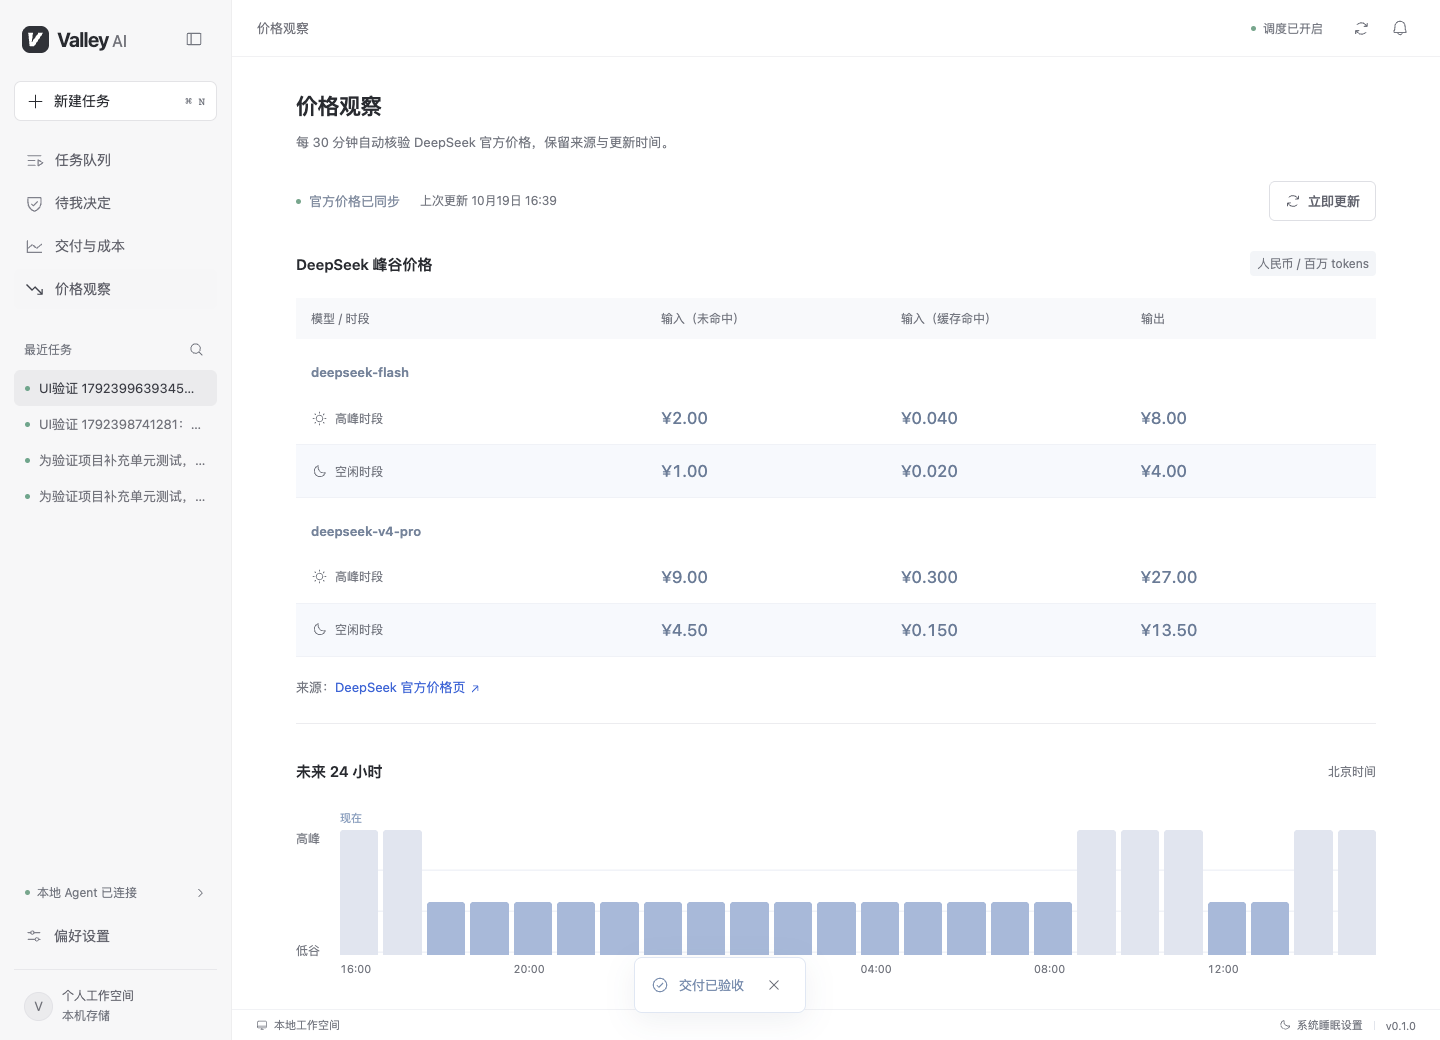
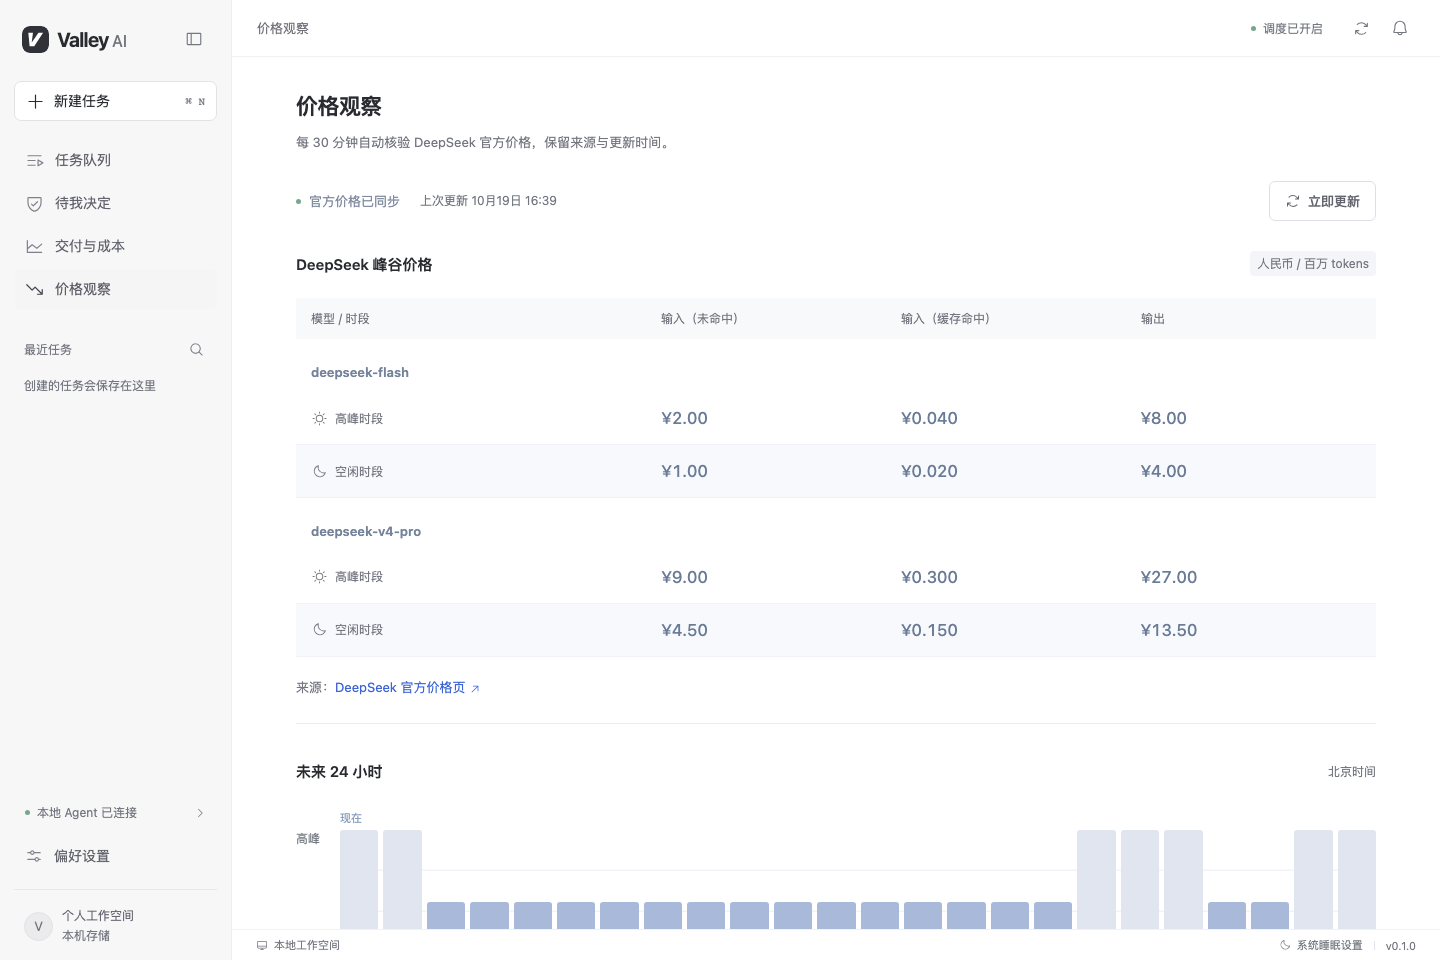
Use recognizable Apple and Windows brand marks and clean app previews

diff --git a/index.html b/index.html
@@ -6,11 +6,11 @@
 <header class="site-header"><a class="wordmark" href="#" aria-label="Valley AI 首页"><img class="mark" src="assets/icon.svg" alt="">Valley <span>AI</span></a><nav aria-label="导航"><a href="#workspace">工作方式</a><a href="#features">功能</a><a href="#download" class="nav-download">下载应用 <span aria-hidden="true">↗</span></a></nav></header>
 <main id="main">
 <section class="hero wrap"><div class="hero-copy"><div class="release-label">为编程 Agent 安排时间</div><h1>白天定好计划。<br><span>把进展留给后台。</span></h1><div class="hero-intro"><p>Valley AI 帮你安排编程 Agent 的长任务。<br>先预演，再确认执行时段，回来查看可验收的结果。</p><div class="hero-actions"><a class="button dark" href="#download">下载应用 <span aria-hidden="true">↓</span></a><a class="quiet-link" href="#workspace">看看它如何工作 <span aria-hidden="true">↗</span></a></div></div></div></section>
-<section id="workspace" class="workspace wrap"><div class="preview-head"><span>一个安静的工作区</span><span>macOS 与 Windows</span></div><div class="app-frame"><div class="window-bar"><div class="window-dots"><i></i><i></i><i></i></div><span>Valley AI</span><span class="window-type">macOS 预览版</span></div><img src="assets/workspace.png" alt="Valley AI 实际界面：左侧任务导航，中央任务输入区与最近任务列表" width="1440" height="1040" fetchpriority="high"></div><div class="preview-caption"><p>描述任务，选择项目。<br><strong>从一个具体的需求开始。</strong></p><p>你可以继续补充要求、调整计划。<br>确认任务包以后，Agent 才会开始修改代码。</p></div></section>
+<section id="workspace" class="workspace wrap"><div class="preview-head"><span>一个安静的工作区</span><span>macOS 与 Windows</span></div><div class="app-frame"><div class="window-bar"><div class="window-dots"><i></i><i></i><i></i></div><span>Valley AI</span><span class="window-type">macOS 预览版</span></div><img src="assets/workspace.png" alt="Valley AI 实际界面：左侧任务导航，中央任务输入区与最近任务列表" width="1440" height="960" fetchpriority="high"></div><div class="preview-caption"><p>描述任务，选择项目。<br><strong>从一个具体的需求开始。</strong></p><p>你可以继续补充要求、调整计划。<br>确认任务包以后，Agent 才会开始修改代码。</p></div></section>
 <section id="features" class="features wrap"><div class="section-heading"><h2>少一点跟进。<br>每一步仍然看得清。</h2></div><div class="feature-rows"><article><div><h3>先把任务想清楚</h3><p>把对话整理成执行步骤、验收标准和风险。继续讨论，直到计划符合预期。</p></div><span class="feature-tag">任务预演</span></article><article><div><h3>让执行时间有依据</h3><p>结合优先级、截止时间、模型单价和电力成本安排队列。每 30 分钟查询 DeepSeek 官方价格。</p></div><span class="feature-tag">成本调度</span></article><article><div><h3>该交给你决定时，就停下来</h3><p>命令权限与未确认的问题进入审批。预先确认且文字完全匹配的问题，可以自动回复。</p></div><span class="feature-tag">交互托管</span></article><article><div><h3>结果回到你的电脑</h3><p>在独立工作目录执行，保留变更和真实命令记录。完成后查看结果、用量与成本估算。</p></div><span class="feature-tag">本地交付</span></article></div></section>
-<section class="price-story wrap"><div class="price-copy"><span class="overline">DeepSeek 价格观察</span><h2>知道什么时候执行，<br>也知道为什么。</h2><p>价格有来源，更新时间可查看。过期的价格不会继续用于启动新的 DeepSeek 任务。</p><p class="fine-print">排程与费用均为估算，不保证最低账单；实际收费以服务商账单为准。</p><a class="quiet-link" href="https://api-docs.deepseek.com/zh-cn/quick_start/pricing/" target="_blank" rel="noopener noreferrer">查看 DeepSeek 官方定价 <span>↗</span></a></div><div class="price-preview"><img src="assets/prices.png" alt="Valley AI 价格观察页面，显示 DeepSeek 官方峰谷价格、来源与更新时间" width="1440" height="1040" loading="eager"><p>来自应用的实际截图 · 价格会随官方更新</p></div></section>
+<section class="price-story wrap"><div class="price-copy"><span class="overline">DeepSeek 价格观察</span><h2>知道什么时候执行，<br>也知道为什么。</h2><p>价格有来源，更新时间可查看。过期的价格不会继续用于启动新的 DeepSeek 任务。</p><p class="fine-print">排程与费用均为估算，不保证最低账单；实际收费以服务商账单为准。</p><a class="quiet-link" href="https://api-docs.deepseek.com/zh-cn/quick_start/pricing/" target="_blank" rel="noopener noreferrer">查看 DeepSeek 官方定价 <span>↗</span></a></div><div class="price-preview"><img src="assets/prices.png" alt="Valley AI 价格观察页面，显示 DeepSeek 官方峰谷价格、来源与更新时间" width="1440" height="960" loading="eager"><p>来自应用的实际截图 · 价格会随官方更新</p></div></section>
 <section class="guard wrap"><div><h2>锁住屏幕，<br>后台继续工作。</h2><p>任务期间阻止电脑空闲睡眠，允许屏幕关闭；使用系统锁屏保护桌面。任务进展和需要处理的请求都保留在应用里。</p><p class="fine-print">请接通电源并保持应用运行。合盖、手动睡眠、关机与系统更新仍可能中断任务。</p></div></section>
-<section id="download" class="download wrap"><div class="download-intro"><h2>让下一项任务，<br>有自己的时间。</h2><p>Valley AI <span id="version">0.1.0</span> · 桌面预览版</p></div><div class="download-options"><article><div class="os-icon" aria-hidden="true"><svg xmlns="http://www.w3.org/2000/svg" width="32" height="32" fill="currentColor" viewBox="0 0 256 256"><path d="M223.3,169.59a8.07,8.07,0,0,0-2.8-3.4C203.53,154.53,200,134.64,200,120c0-17.67,13.47-33.06,21.5-40.67a8,8,0,0,0,0-11.62C208.82,55.74,187.82,48,168,48a72.2,72.2,0,0,0-40,12.13,71.56,71.56,0,0,0-90.71,9.09A74.63,74.63,0,0,0,16,123.4a127.06,127.06,0,0,0,40.14,89.73A39.8,39.8,0,0,0,83.59,224h87.68a39.84,39.84,0,0,0,29.12-12.57,125,125,0,0,0,17.82-24.6C225.23,174,224.33,172,223.3,169.59Zm-34.63,30.94a23.76,23.76,0,0,1-17.4,7.47H83.59a23.82,23.82,0,0,1-16.44-6.51A111.14,111.14,0,0,1,32,123,58.5,58.5,0,0,1,48.65,80.47,54.81,54.81,0,0,1,88,64h.78A55.45,55.45,0,0,1,123,76.28a8,8,0,0,0,10,0A55.44,55.44,0,0,1,168,64a70.64,70.64,0,0,1,36,10.35c-13,14.52-20,30.47-20,45.65,0,23.77,7.64,42.73,22.18,55.3A105.82,105.82,0,0,1,188.67,200.53ZM128.23,30A40,40,0,0,1,167,0h1a8,8,0,0,1,0,16h-1a24,24,0,0,0-23.24,18,8,8,0,1,1-15.5-4Z"></path></svg></div><div><h3>macOS</h3><p>Apple Silicon · macOS 12 及以上</p><small id="mac-info">安装包准备中</small></div><a id="mac-download" class="button download-button disabled" aria-disabled="true">准备中 <span>↓</span></a></article><article><div class="os-icon" aria-hidden="true"><svg xmlns="http://www.w3.org/2000/svg" width="32" height="32" fill="currentColor" viewBox="0 0 256 256"><path d="M208,136H128a8,8,0,0,0-8,8v57.45a8,8,0,0,0,6.57,7.88l80,14.54A7.61,7.61,0,0,0,208,224a8,8,0,0,0,8-8V144A8,8,0,0,0,208,136Zm-8,70.41-64-11.63V152h64ZM96,136H32a8,8,0,0,0-8,8v40a8,8,0,0,0,6.57,7.87l64,11.64a8.54,8.54,0,0,0,1.43.13,8,8,0,0,0,8-8V144A8,8,0,0,0,96,136Zm-8,50.05-48-8.73V152H88ZM213.13,33.86a8,8,0,0,0-6.56-1.73l-80,14.55A8,8,0,0,0,120,54.55V112a8,8,0,0,0,8,8h80a8,8,0,0,0,8-8V40A8,8,0,0,0,213.13,33.86ZM200,104H136V61.22l64-11.63ZM101.13,54.22a8,8,0,0,0-6.56-1.73l-64,11.64A8,8,0,0,0,24,72v40a8,8,0,0,0,8,8H96a8,8,0,0,0,8-8V60.36A8,8,0,0,0,101.13,54.22ZM88,104H40V78.68L88,70Z"></path></svg></div><div><h3>Windows</h3><p>64 位 · Windows 10 / 11</p><small id="windows-info">安装包构建中</small></div><a id="windows-download" class="button download-button disabled" aria-disabled="true">构建中 <span>↓</span></a></article><div class="download-notes"><p>当前为未经平台认证的测试版。Mac 为 Apple 芯片版本；Intel Mac 暂未提供安装包。</p><p>真实任务需要 <a href="https://developers.openai.com/codex/cli" target="_blank" rel="noopener noreferrer">Codex CLI</a>、<a href="https://git-scm.com/downloads" target="_blank" rel="noopener noreferrer">Git</a> 和你自己的模型 API Key。手机端与云端执行尚未开放。</p><a id="release-link" href="https://github.com/CaliBG/valley-ai/releases" target="_blank" rel="noopener noreferrer">版本记录与文件校验 <span>↗</span></a></div></div></section>
+<section id="download" class="download wrap"><div class="download-intro"><h2>让下一项任务，<br>有自己的时间。</h2><p>Valley AI <span id="version">0.1.0</span> · 桌面预览版</p></div><div class="download-options"><article><div class="os-icon os-apple" aria-hidden="true"><svg xmlns="http://www.w3.org/2000/svg" viewBox="0 0 384 512" fill="currentColor"><!-- Font Awesome Free 7.3.1 by Fonticons, Inc. | CC BY 4.0 | https://fontawesome.com/license/free --><path d="M319.1 268.7c-.2-36.7 16.4-64.4 50-84.8-18.8-26.9-47.2-41.7-84.7-44.6-35.5-2.8-74.3 20.7-88.5 20.7-15 0-49.4-19.7-76.4-19.7-55.8 .9-115.1 44.5-115.1 133.2 0 26.2 4.8 53.3 14.4 81.2 12.8 36.7 59 126.7 107.2 125.2 25.2-.6 43-17.9 75.8-17.9 31.8 0 48.3 17.9 76.4 17.9 48.6-.7 90.4-82.5 102.6-119.3-65.2-30.7-61.7-90-61.7-91.9zM262.5 104.5c27.3-32.4 24.8-61.9 24-72.5-24.1 1.4-52 16.4-67.9 34.9-17.5 19.8-27.8 44.3-25.6 71.9 26.1 2 49.9-11.4 69.5-34.3z"/></svg></div><div><h3>macOS</h3><p>Apple Silicon · macOS 12 及以上</p><small id="mac-info">安装包准备中</small></div><a id="mac-download" class="button download-button disabled" aria-disabled="true">准备中 <span>↓</span></a></article><article><div class="os-icon os-windows" aria-hidden="true"><svg xmlns="http://www.w3.org/2000/svg" viewBox="0 0 448 512" fill="currentColor"><!-- Font Awesome Free 7.3.1 by Fonticons, Inc. | CC BY 4.0 | https://fontawesome.com/license/free --><path d="M0 93.7l183.6-25.3 0 177.4-183.6 0 0-152.1zM0 418.3l183.6 25.3 0-175.2-183.6 0 0 149.9zm203.8 28l244.2 33.7 0-211.6-244.2 0 0 177.9zm0-380.6l0 180.1 244.2 0 0-213.8-244.2 33.7z"/></svg></div><div><h3>Windows</h3><p>64 位 · Windows 10 / 11</p><small id="windows-info">安装包构建中</small></div><a id="windows-download" class="button download-button disabled" aria-disabled="true">构建中 <span>↓</span></a></article><div class="download-notes"><p>当前为未经平台认证的测试版。Mac 为 Apple 芯片版本；Intel Mac 暂未提供安装包。</p><p>真实任务需要 <a href="https://developers.openai.com/codex/cli" target="_blank" rel="noopener noreferrer">Codex CLI</a>、<a href="https://git-scm.com/downloads" target="_blank" rel="noopener noreferrer">Git</a> 和你自己的模型 API Key。手机端与云端执行尚未开放。</p><a id="release-link" href="https://github.com/CaliBG/valley-ai/releases" target="_blank" rel="noopener noreferrer">版本记录与文件校验 <span>↗</span></a></div></div></section>
 <section class="getting-started wrap"><h2>安装后，三步开始。</h2><ol><li><span>1</span><div><h3>连接执行环境</h3><p>在偏好设置中选择 Codex CLI，配置 DeepSeek Key。密钥保存到系统凭据库。</p></div></li><li><span>2</span><div><h3>选项目，说需求</h3><p>选择已提交且没有未提交修改的 Git 仓库，输入任务并生成计划。</p></div></li><li><span>3</span><div><h3>确认，再执行</h3><p>检查计划、时限和预算。任务完成后，在交付页查看结果并验收。</p></div></li></ol></section>
 </main><footer class="site-footer wrap"><a class="wordmark" href="#"><img class="mark" src="assets/icon.svg" alt="">Valley <span>AI</span></a><span>先规划，再交给后台。</span><a href="https://github.com/CaliBG/valley-ai/issues" target="_blank" rel="noopener noreferrer">反馈问题 ↗</a><small>© 2026 Valley AI</small></footer><script src="site.js"></script>
 </body></html>

diff --git a/style.css b/style.css
@@ -217,3 +217,6 @@ h2 { font-size: 31px; line-height: 1.5; font-weight: 550; letter-spacing: -.8px;
  .hero-intro { margin-top: 18px; }
  .hero-actions { margin-top: 23px; }
 }
+.os-apple { width: 29px; padding: 0 2px; }
+.os-windows { width: 29px; color: #0078d4; }
+@media (prefers-color-scheme: dark) { .os-windows { color: #67b7f4; } }
